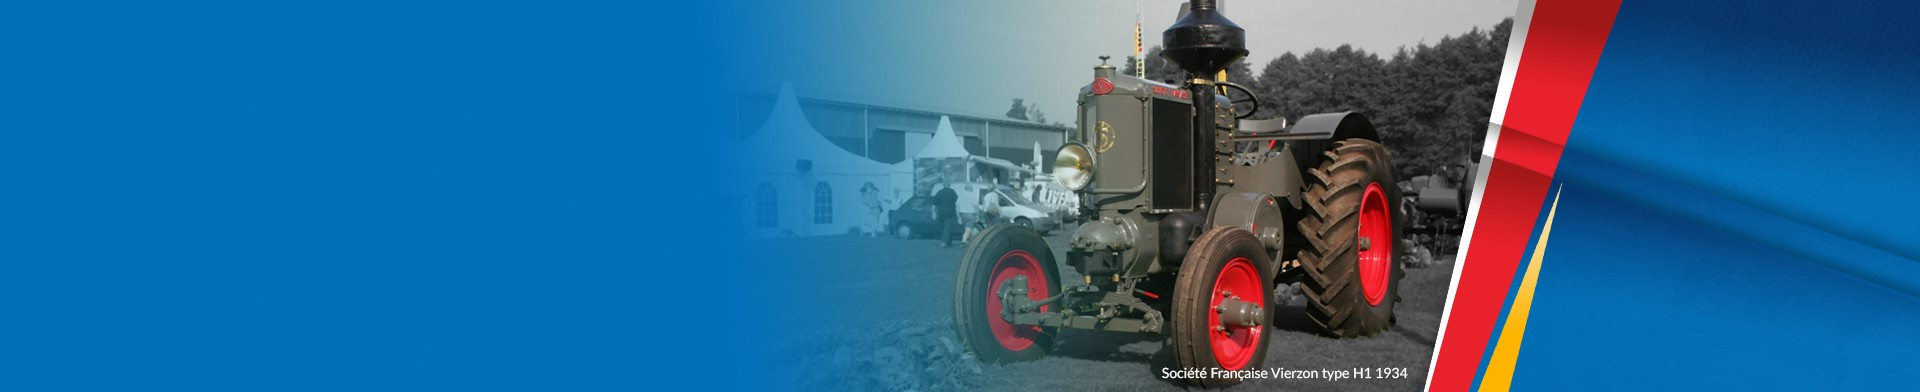
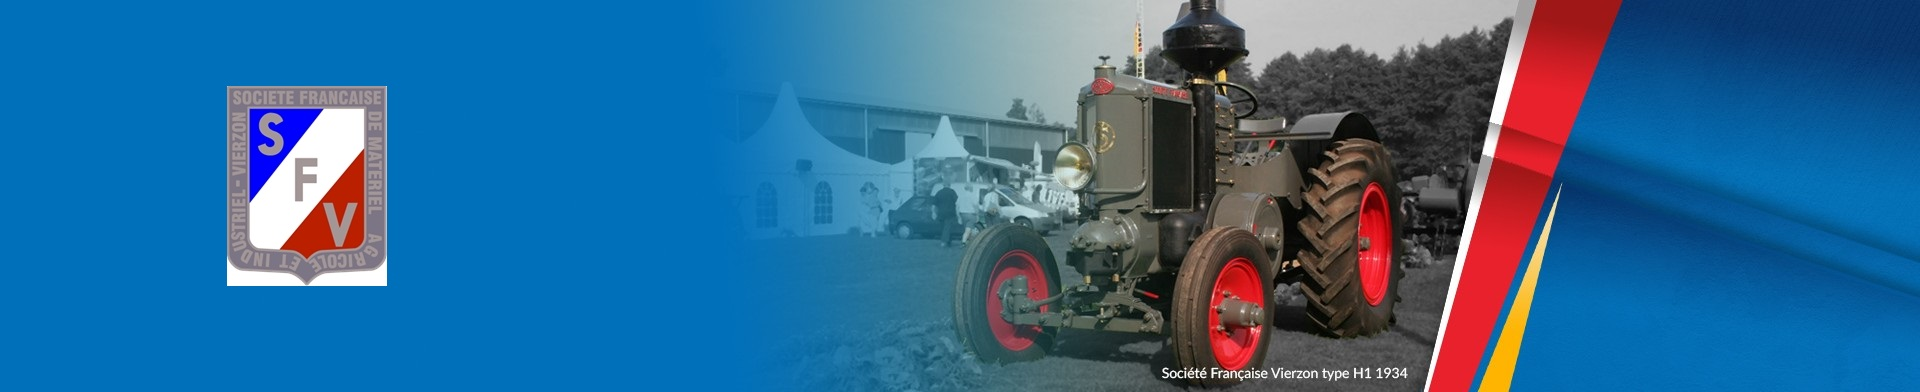
ajout de fichiers .jpg. Modification des fichiers readme et style.css

Changed region(s): [[0.0938, 0.2143, 0.2188, 0.7347]]

diff --git a/SFV HV2.html b/SFV HV2.html
@@ -1,0 +1,304 @@
+<!DOCTYPE html>
+<html lang="fr">
+
+<head>
+    <meta charset="UTF-8" />
+    <meta http-equiv="X-UA-Compatible" content="IE=edge" />
+    <meta name="viewport" content="width=device-width, initial-scale=1.0" />
+    <link rel="stylesheet" href="reset.css" />
+    <link rel="preconnect" href="https://fonts.googleapis.com" />
+    <link rel="preconnect" href="https://fonts.gstatic.com" crossorigin />
+    <link href="https://fonts.googleapis.com/css2?family=Raleway:wght@400;700&display=swap" rel="stylesheet" />
+    <link rel="stylesheet" href="style.css" />
+    <title>SFV HV2 1949</title>
+</head>
+<main>
+    <header class="header">
+        <p>
+            <img src="img/banniere.jpg" alt="banniere">
+        </p>
+        <h1>LE SFV HV2</h1>
+    </header><br>
+    <div class="intro">
+        <p>Bienvenu sur ma page perso ! Vous voici sur la page qui me fait plaisir ! Et pour cause, elle parle d'un
+            sujet qui me tient à coeur. Le SFV HV2. Un tracteur qui faisait partie de la gamme des tracteurs semi diesel
+            de la célèbre usine qui se trouve <a
+                href="https://www.google.com/maps/place/Mus%C3%A9e+de+Vierzon/@47.2248764,2.0582206,17z/data=!3m1!4b1!4m5!3m4!1s0x47fad964b4c28bed:0xe554f084bc08e003!8m2!3d47.2248719!4d2.0604082"
+                target="_blank">ici</a> à Vierzon.<br>Dans cette page vous trouverez l'histoire de ce tracteur, d'ou il
+            est venu, quel était son utilité, son principe de fonctionnement. Vous y rencontrerez Mr Gérard,
+            l'inventeur, partit de rien pour en arriver des années plus tard, à la création de l'usine d'ou est sortie
+            mon tracteur. Enfin, plutôt le tracteur de mon grand père...<br>Vous y trouverez aussi la quasi totalité de
+            la gamme des SFV, du petit "super 204" en passant par le 403, le 303, l'étrange CGM, mais en passant aussi
+            par le rarissime 552 qui n'aurait été produit qu'à 82 unités...<br>
+            Bref, je vous souhaite une bonne lecture, un bon voyage au travers de ces lignes, images et vidéos qui, je
+            l'espère, vous rendront étonnés de ce qu'il se faisait dans ces années là...</p><br>
+    </div>
+
+    <section id="nav">
+        <div class="logo"><img src="img/logoCapot.jpg" alt="logoCapot">
+        </div>
+        <div class="menu">
+            <h4>MENU</h4><br>
+            <nav class="choix">
+                <ol>
+                    <li class="li_hv2"><a href="#hv2">Le SFV HV2</a></li>
+                    <li class="li_esplanade"><a href="#esplanade">L'esplanade de la SFV</a></li>
+                    <li class="li_celestin"><a href="#celestin">Célestin Gérard</a></li>
+                    <li class="li_gamme"><a href="#gamme">La gamme complète des sfv</a></li>
+                    <li class="li_1949"><a href="#1949">Mon HV2</a></li>
+                    <li class="li_restor"><a href="#restor">La restauration de mon HV2</a></li>
+                    <li class="li_rmc"><a href="#rmc">La restauration d'un 302 par Vintage Mécanique</a></li>
+                    <li class="li_autre"><a href="#autre">D'autre HV2</a></li>
+                </ol>
+            </nav>
+        </div>
+        <div class="batiment">
+            <img src="img/usine.jpg" alt="usine">
+        </div>
+    </section>
+
+    <section class="moteur">
+        <h3 id="hv2">LE HV2</h3><br>
+        <img src="img/sfv-hv2-V2_side.jpg" alt="side">
+        <p>Construit de 1940 à 1944 en première version et de 1947 à 1950 dans la deuxième version, le H V 2 conserve le
+            moteur du H 2, sa transmission reçoit une boite cinq vitesses avant et une arrière.
+
+            La deuxième version reçoit la nouvelle couleur vert foncé Vierzon.
+
+            Environ 1600 tracteurs H V 2, ont été fabriqués par la S F V</p><br>
+        <div class="spec">
+            <h4>CARACTERISTIQUES TECHNIQUES</h4>
+            <table>
+                <tr>
+                    <td>
+                        <p>MOTEUR</p>
+                    </td>
+                    <td>
+                        <p>Monocylindre à plat 2 temps semi diesel</p>
+                    </td>
+                </tr>
+                <tr>
+                    <td>
+                        <p>CYLINDREE</p>
+                    </td>
+                    <td>
+                        <p>5350 cm³</p>
+                    </td>
+                </tr>
+                <tr>
+                    <td>
+                        <p>REGIME MOTEUR</p>
+                    </td>
+                    <td>
+                        <p>De 700 à 800tr/m</p>
+                    </td>
+                </tr>
+                <tr>
+                    <td>
+                        <p>PUISSANCE À LA POULIE</p>
+                    </td>
+                    <td>
+                        <p>25 à 30 CV</p>
+                    </td>
+                </tr>
+                <tr>
+                    <td>
+                        <p>PUISSANCE AU CROCHET</p>
+                    </td>
+                    <td>
+                        <p>15 CV</p>
+                    </td>
+                </tr>
+                <tr>
+                    <td>
+                        <p>VITESSES</p>
+                    </td>
+                    <td>
+                        <p>5 AV et 1 AR</p>
+                    </td>
+                </tr>
+                <tr>
+                    <td>
+                        <p>PNEUS</p>
+                    </td>
+                    <td>
+                        <p>AV 5.50x20 / AR 10x28</p>
+                    </td>
+                </tr>
+                <tr>
+                    <td>
+                        <p>POIDS</p>
+                    </td>
+                    <td>
+                        <p>2T230</p>
+                    </td>
+                </tr>
+                <tr>
+                    <td>
+                        <p>LONGUEUR</p>
+                    </td>
+                    <td>
+                        <p>2m98</p>
+                    </td>
+                </tr>
+                <tr>
+                    <td>
+                        <p>LARGEUR</p>
+                    </td>
+                    <td>
+                        <p>1m63</p>
+                    </td>
+                </tr>
+                <tr>
+                    <td>
+                        <p>COULEUR</p>
+                    </td>
+                    <td>
+                        <p>Vert clair puis vert foncé (2em version)</p>
+                    </td>
+                </tr>
+                <tr>
+                    <td>
+                        <p>LIEU DE FABRICATION</p>
+                    </td>
+                    <td>
+                        <p>Vierzon (18)</p>
+                    </td>
+                </tr>
+            </table>
+        </div>
+        <div class="fonctionnement">
+            <h3>PRINCIPE DE FONCTIONNMENT</h3><br>
+            <img src="img/MoteurOuvert.jpg" alt="ouvert">
+            <div class="float"><img src="img/schema.jpg" alt="schema">
+            </div>
+
+            <p>Le piston est en point mort bas.<br>Les gaz d’échappement sont évacués en E poussé par l’air frais
+                entrant
+                par A lumière de balayage,stocké sous pression en C.<br>La forme du sommet du piston P évite le mélange
+                des
+                deux fluides. <br>Dès que le piston revient vers l’avant, dans la chambre B, le carburant est injecté
+                par I.
+                Dans cette chambre séparée du cylindre le carburant arrive sur une masse chaude dite "boule chaude" où
+                Il se vaporise alors et se mélange à l’air. Les clapets S laissent rentrer l’air dans C venant du filtre
+                à
+                air.<br>
+                Le piston compresse l’air aprés avoir obstrué les lumières E et A . La pression en plus de la chaleur de
+                la
+                boule (environs 600°), produit l’explosion du mélange lorsque le piston arrive au point mort haut.<br>
+                Le temps moteur commence par le recul du piston, qui va compressé l’air dans C les clapets S se
+                refermant. Les lumières E puis A vont être de nouveaux ouvertes et le cycle recommence.<br>
+                On a donc un système trés simple sans soupapes et autres culbuteurs.<br>
+                Mais comme une animation vaut mieux que de longs discourts, je vous montre l'explication avec ceci:</p>
+            <br>
+            <img src="img/moteur.gif" alt="anim1">
+            <p>Vous pouvez voir le mouvement du piston en rotation dans la chemise en détail</p><br>
+            <img src="img/moteur2.gif" alt="anim2">
+            <p>Et le même mouvement du piston, dans son ensemble.<br>
+                Tout ceci ne peut fonctionner qu'à une condition... Que la boule soit chaude donc.<br>
+                Le système de démarrage à boule chaude est appelé ainsi à cause de sa forme: tous les tracteurs
+                motorisés par le moteur semi-diesel à deux temps à boule chaude possèdent à l’avant une protubérance de
+                forme sphérique.<br>
+                Elle est très épaisse, généralement en acier au nickel et fixée sur la culasse, face à l’injecteur.<br>
+                Non refroidie, la boule chaude a une température comprise entre 500°C et 600°C continuellement, car elle
+                est maintenue à ces T° par la combustion du carburant.<br>
+                Elle est la partie visible de la culasse, qui, quant à elle, est refroidie par la chambre à eau qui
+                l'entoure.<br>
+                Une fois chauffée à l’aide d’une lampe de chauffe, c’est le combustible contenu dans cette boule qui
+                permet le démarrage du tracteur.<br>
+                Au contact de la boule chaude, le combustible subit des modifications chimiques qui lui permettent alors
+                de s’enflammer spontanément malgré le faible taux de compression du moteur.<br>
+                Voilà, vous savez maintenant comment démarre et fonctionne ce type de tracteur dit <em>"à boule
+                    chaude"</em></p>
+        </div>
+        <div class="esplanade">
+            <h3 id="esplanade">L'esplanade de la SFV</h3>
+            <img src="img/esplanadenuit.jpg" alt="nuit">
+            <p>Bâtis à la fin du XIXème siècle, les bâtiments industriels de l’ancienne Société Française(chaînes de
+                montage de matériels agricoles tels que les tracteurs de la Société de Fabrication Vierzonnaise (SFV)),
+                d’une surface totale couverte de 18 000 m², ont cessé d’abriter toute activité en décembre 1995.<br>
+                Ils ont été acquis par la Ville de Vierzon.<br>
+                Le bâtiment construit sur les techniques "Eiffel", a été inscrit à l’inventaire supplémentaire des
+                monuments historiques, par arrêté préfectoral en date du 08 mars 1999.<br>
+                Le site a été ensuite pris en charge par la Communauté de Communes lors de sa création<br>
+                La Société française de matériel agricole et industriel (SFMAI), devenue Société française de Vierzon
+                (SFV), est l'entreprise française créée le 15 octobre 1847 par Célestin Gérard à Vierzon, le pionnier
+                français du machinisme agricole.<br>
+                La fabrication reste longtemps artisanale. La société se spécialise dans la fabrication de locomobiles à
+                vapeur et de batteuses.
+
+                En 1878, Célestin Gérard détient 225 médailles d'or, 85 d'argent et 6 grandes médailles et diplômes
+                d'honneur. Le 28 mars de la même année, n'ayant pas d'héritier capable de reprendre la société, il vend
+                ses ateliers à Lucien Arbel, pour former la SFMAI en 1889.
+
+                La société fabrique à partir des années 1930 des tracteurs agricoles inspirés du type Lanz allemand.
+                Leur moteur lent accepte toute sorte de carburants économiques, tels que les huiles de récupération.
+
+                En 1959, la société américaine Case rachète la SFMAI et la production de matériel de travaux publics
+                remplace progressivement celle du matériel agricole.</p>
+        </div>
+
+
+
+
+
+
+
+        <h3 id="celestin">Célestin Gérard</h3>
+        <h3 id="gamme">La gamme complète des sfv</h3>
+        <h3 id="1949">Mon HV2</h3>
+        <h3 id="restor">La restauration de mon HV2</h3>
+        <h3 id="rmc">La restauration d'un 302 par Vintage Mécanique</h3>
+        <h3 id="autre">D'autre HV2</h3>
+    </section>
+
+
+
+
+
+
+
+
+
+
+
+
+
+
+
+
+
+
+
+
+
+
+
+
+
+
+
+
+
+
+
+
+
+
+
+
+
+
+
+
+
+
+
+
+
+
+
+</main>
+<footer></footer>
+
+</html>

diff --git a/style.css b/style.css
@@ -1,0 +1,10 @@
+table
+{
+    border-collapse: collapse; /* Les bordures du tableau seront collées (plus joli) */
+    
+}
+td
+{
+    border: 3px solid;
+    color: #325928;
+}

diff --git a/readme.md b/readme.md
@@ -1,0 +1,9 @@
+Bienvenu sur ma page perso. Sachez dores et déjà, que cette page est très importante pour moi, car elle fait partie d'un lien personnel bien particulier.
+
+Ce lien c'est un tracteur agricole qui appartenait il y a longtemps à mon grand père maternel. Je ne l'ai jamais trop connu en vrai... Le peu de souvenir que j'ai de lui ne sont pas des plus interessants...
+
+Histoire de pouvoir "créer" ce lien que je n'ai pas eu, j'ai décidé de remettre en état ce tracteur.
+
+Il s'agit du SFV HV2. Il a été construit en 1949. Découvrez le dans la page que j'ai créée.
+
+Bonne lecture.
